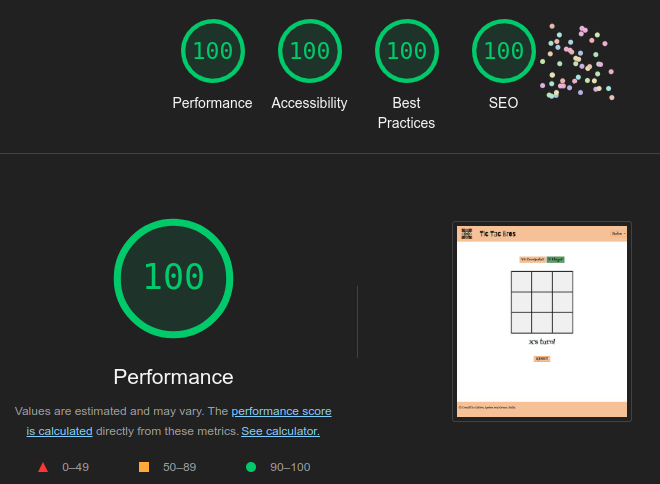
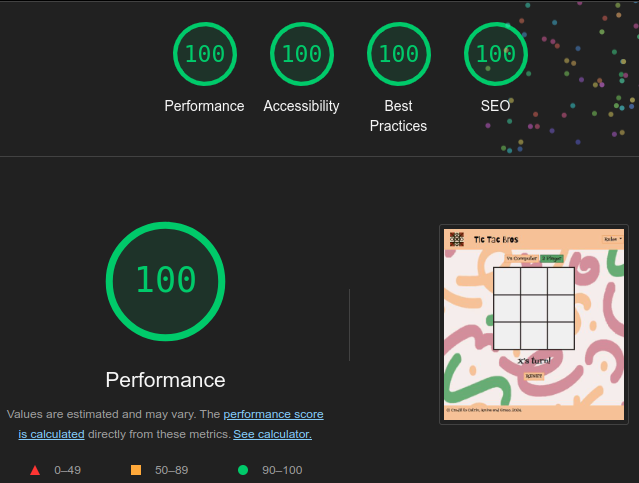
Update background image format to WebP

diff --git a/assets/css/style.css b/assets/css/style.css
@@ -40,7 +40,7 @@ h1 {
 
 /* Main Content */
 main{
-    background: url(../images/background3.png) center / cover;
+    background: url(../images/background3.webP) center / cover;
     height:100%;
 }
 
